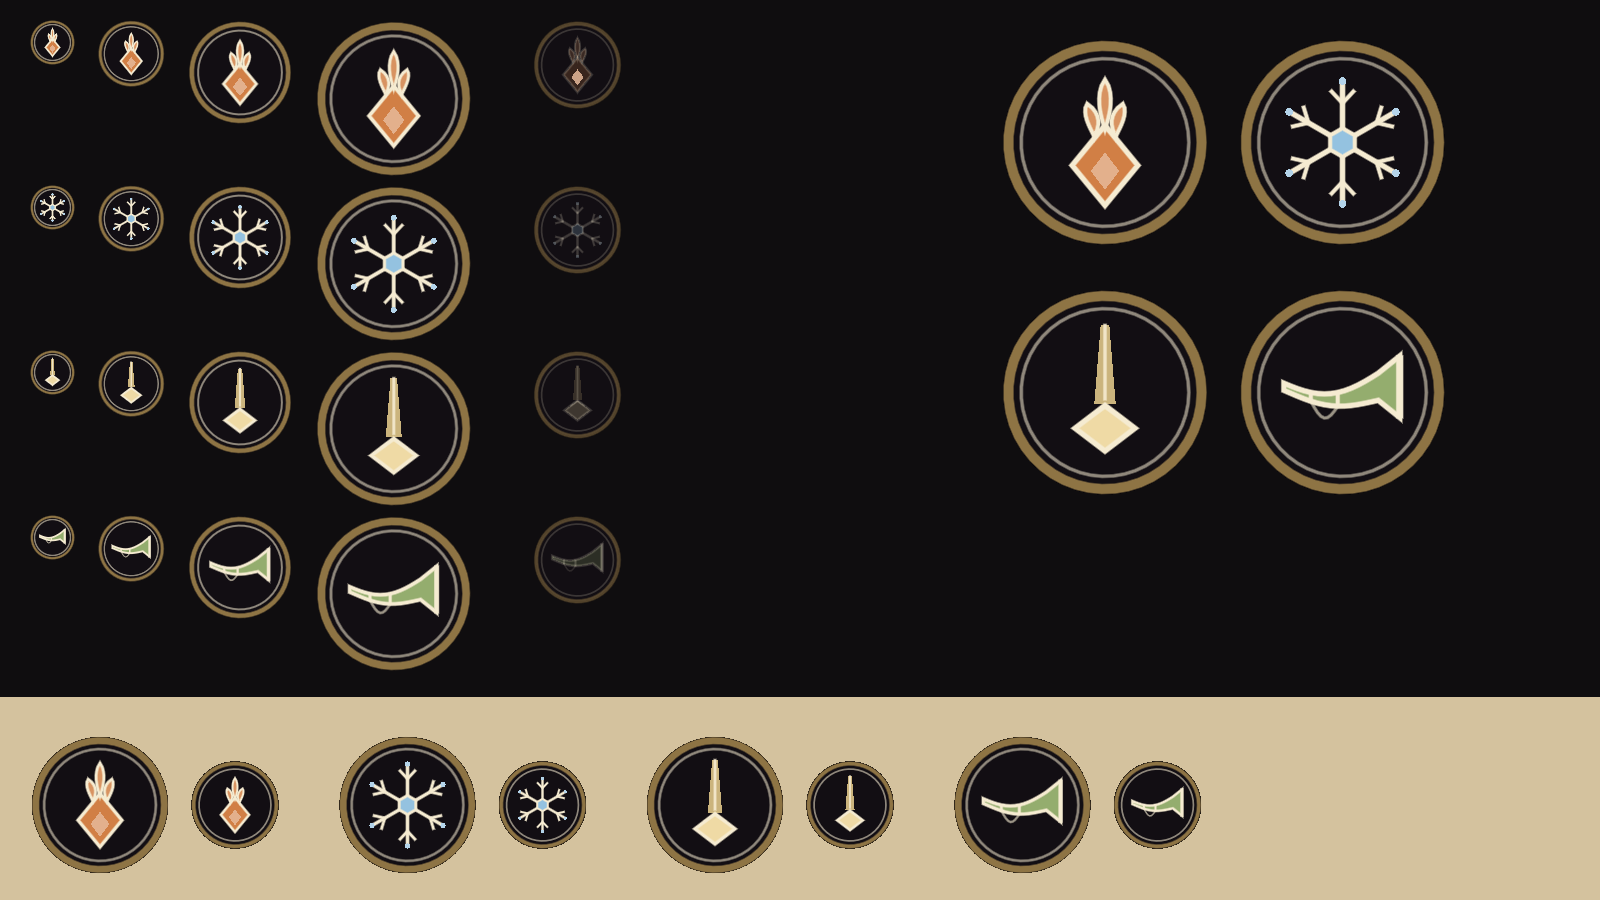
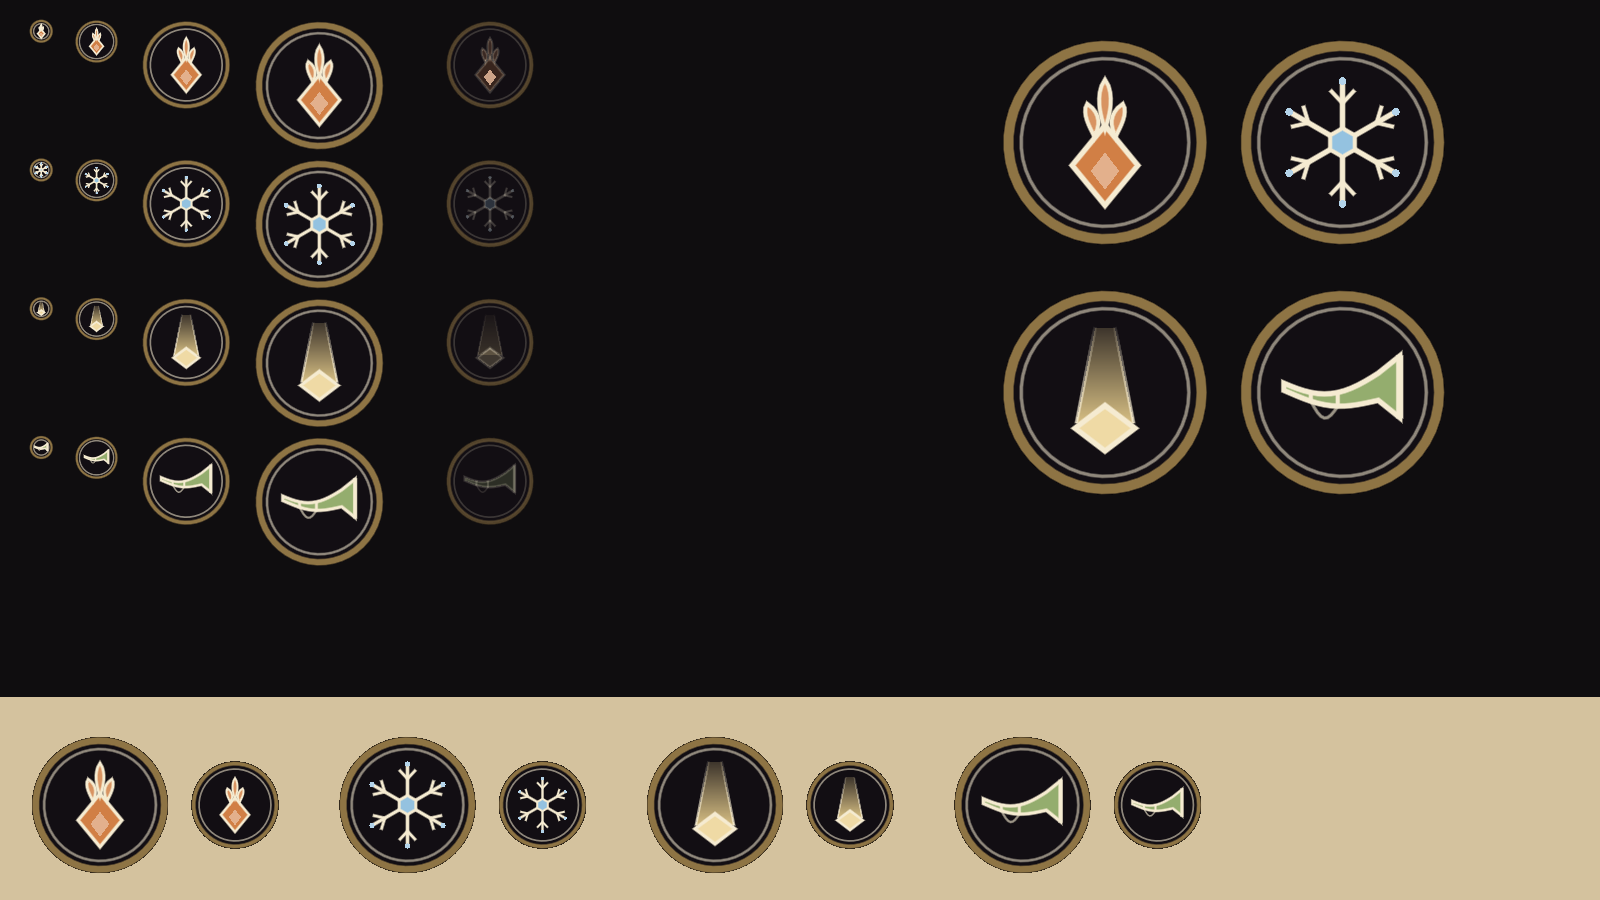
Hub people lit above the crowd in the stylized look (T-1); asset report for Lote 2C

diff --git a/docs/qa/asset_report.md b/docs/qa/asset_report.md
@@ -213,6 +213,45 @@ aceso e apagado; `emeth_temper_classic.jpg` e `_stylized.jpg` com os postos 0, 1
 `frame_yaw` 0 (`a13_*`, depois contra antes no HEAD): Salão clássico 1,10% e Cripta estilizada 1,35% dos pixels
 mudam mais de 12, todos no HUD (que outras frentes mudaram), nas chamas e nas partículas; nenhuma pedra nem laje.
 
+## Lote 2C e re-revisão do hub (technical-artist, 2026-11-19 noite)
+
+- **DT-104** feito: `tests/test_asset_budget.gd` (4 testes, 0,8 s) falha com assado atrás da entrada do
+  `tools/bake.gd` (cada `.res` guarda `bake_stamp`, `stamp()` com `PIPELINE`), assados acima de 70 MB, música do pacote
+  acima de 18 MB (o `.oggvorbisstr` importado de cada `.ogg`) ou figura acima do teto. Falhava antes do reassado (Morvath
+  e todos sem carimbo); passa depois.
+- **Reassado de tudo** (nove inimigos e os dois do hub): 45,49 MB antes (com a `statue.res`) para 45,32 MB.
+  `test_enemy_windup`, `test_boss_body` (Morvath `pose_drift` até 0,44 m fora da queda 0,52 e do levantar 0,41),
+  `test_living_crowd`, `test_held_weapons`, `test_t5b_fight` passam. **QW-116**: o andar do feiticeiro já leva o cajado
+  13,8 graus para trás e o trote sobe 0,15 (T5b); sem mudança. O clipe novo de Morvath do Q-09 a é do C19 (não existe).
+- **DT-107**: saíram `hero_sombra/` (32 MB), `paladin_1/` (28 MB), `statue.res`, `tools/recolor_hero.gd`, `HeroGear`,
+  o `.uid` órfão do GUT; `.gutconfig.json` e `lion.svg` fora do pacote (`include_filter` vazio, `lion.svg` no
+  `exclude_filter`). **4 100 triângulos não cabe**: os níveis simples das armas do KayKit (`"lod"`, medidos: lâmina 457
+  para 227, cajado 1 519 para 759, escudo 626 para 304) tiram a cabeça do cajado e a borda do escudo e quebram 6
+  medidas do `test_enemy_windup` (média por vértice); ficaram de fora. Teto no teste 5 600 (feiticeiro 5 530, ancião
+  5 557). Para 4 100: armas próprias. Peças do KayKit sem uso: não apagadas, falta o environment-artist confirmar.
+- **DT-101** (sem Q-01): `CREDITOS.txt` com o retrato do Livro, medalhões do Altar e da Provação e as armas e a gente do
+  KayKit; `asset_credits.md` com modelos, fontes (autores dos OFL) e sons apontando ao `audio/LICENSES.md`;
+  `steam-ia.md` com `title_fill.png`/`title_bg.png`, a ambiência sintetizada, os selos dos anjos e a lista "Sem IA" com
+  todos os sons gravados. **DT-108**: saldo do Meshy 546, inventário dos assados, `CLAUDE.md`.
+- **(c)** `BossChamber._exit_tree`: a lua já liberada não vai mais a um parâmetro tipado (`is_instance_valid`);
+  `test_room_style` sem SCRIPT ERROR.
+- **(d)** água escura no Compatibility (`dark_water.gdshader`, `compat_body` 1,0, `compat_glow` 0,7): fonte do hub
+  matiz 193 para 202, saturação 0 para 0,41, luma p90 102 para 109 (Forward+ 203, 0,39, 97). `docs/gallery/hub/d/water_*`.
+- **(a) L-1** traços da preparação mais pintura (`EnemyFx`: tinta `INK_EDGE` 0,09 e `INK_ALPHA` 0,78, besta em osso
+  `BOW_BODY` a `STROKE_TONE` 0,78, braços do Sacerdote a `RITUAL_ARM_DARK` 0,72): besta (caixa só dela, mesmos quadros,
+  câmera Longe) luma p50 208 para 181 e 191 para 172, p90 220 para 189, saturação 0,05 para 0,2 (matiz 38), área igual
+  (-6%); V do Sacerdote p50 137 para 117, saturação 0,45 para 0,51. `docs/gallery/lc/windup/l1_paint/`.
+- **(b)** marcas de Prata e Memória no `RewardGem`: nenhum pedido do ui-ux-designer em arquivo; segue pendente.
+- **T-1** NPCs do hub: `HubNpc.STYLE_LIGHT` 0,5, `STYLE_SCENE` 0,3, `STYLE_RIM` 0,35 (multidão 0,2 / 0,1 / 0,18), o
+  Vendedor vezes `STYLE_VENDOR` 2,2. Câmera Perto em cada estação, pixels do corpo: Forjador p50 cerca de 55 para 79,
+  Vendedor 45 para 76, herói 94 a 97. `docs/gallery/hub/d/t1_*`. Clássico igual (só uniforms `style_*`).
+- **T-2** selo da Luz sem ponta: topo reto esmaecendo (alfa 0,2 a 0,9), largura de baixo 2,9 vezes a de cima, dois fios
+  nas bordas. `docs/gallery/rj1/angel_seals.png` (24, 46, 96 e 140 px). T-3: oliva mantido.
+- **Pendente (2B, em série com o C19 do gameplay-engineer)**: GF-15, VX-17, T5-17 a T5-19, T5b P2-2, corredor elite a
+  259 passos por minuto, tira lateral do besteiro, Q-T5-6, Q-T5-7, B-b; reassar Morvath de novo quando o clipe do Q-09 a
+  existir. `tools/walk_strip.gd` e `tools/rj1_lab.gd` (parte da Emeth) não compilam hoje sem os autoloads
+  (`T` no `fx.gd`, `Audio` no `ui_kit.gd`).
+
 ## Melhorias propostas (maior ganho por esforço primeiro)
 
 ### Técnicas (posso fazer sem pedir; medir antes e depois, captura na GPU)
